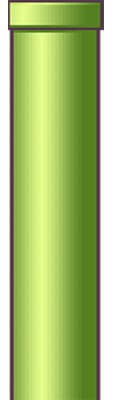
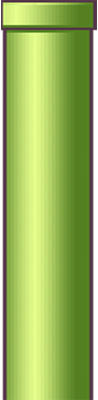
tmp commmit

Changed region(s): [[0.8265, 0.0, 1.0, 1.0], [0.0, 0.0, 0.1531, 1.0]]

diff --git a/Classes/flappybird/GameLayer.cpp b/Classes/flappybird/GameLayer.cpp
@@ -6,10 +6,8 @@
 
 #define LOG_TAG "FlappyBirdGameLayer_TAG"
 
-bool GameLayer::init()
-{
-    if(!Layer::init())
-    {
+bool GameLayer::init() {
+    if (!Layer::init()) {
         return false;
     }
 
@@ -19,11 +17,12 @@ bool GameLayer::init()
     Point origin = Director::getInstance()->getVisibleOrigin();
 
     // 添加精灵
-    mBackground = Sprite::create("fp/vplants_001.jpg");
+    mBackground = Sprite::create("fp/vp.jpg");
     mBackground->setAnchorPoint(Point(0, 0));
     mBackground->setPosition(Point(origin.x, origin.y + visibleSize.height - mBackground->getContentSize().height));
     this->addChild(mBackground, 0);
-    CCLOG("%s, bg.w=%f, bg.h=%f", LOG_TAG, mBackground->getContentSize().width, mBackground->getContentSize().height);
+    CCLOG("%s, bg.w=%f, bg.h=%f", LOG_TAG, mBackground->getContentSize().width,
+          mBackground->getContentSize().height);
 
     mBird = initBird();
     Size backgroundSize = mBackground->getContentSize();
@@ -51,28 +50,26 @@ bool GameLayer::init()
     return true;
 }
 
-Sprite* GameLayer::initFloor()
-{
-    Sprite* sprite = Sprite::create("fp/floor1.png");
+Sprite *GameLayer::initFloor() {
+    Sprite *sprite = Sprite::create("fp/floor1.png");
     return sprite;
 }
 
-Sprite* GameLayer::initBird()
-{
-    Sprite* bird = Sprite::create();
+Sprite *GameLayer::initBird() {
+    Sprite *bird = Sprite::create();
 
-    SpriteFrameCache* sfc = SpriteFrameCache::getInstance();
+    SpriteFrameCache *sfc = SpriteFrameCache::getInstance();
     sfc->addSpriteFramesWithFile("fp/bird.plist", "fp/birdP.png");
     //动画图片的名称
     std::string animBird[3] =
-    {
-            "bird1.png",
-            "bird2.png",
-            "bird3.png"
-    };
+            {
+                    "bird1.png",
+                    "bird2.png",
+                    "bird3.png"
+            };
 
     //创建存放动画帧的向量
-    Vector<SpriteFrame*> animFrames;
+    Vector<SpriteFrame *> animFrames;
     //获取动画帧
     animFrames.pushBack(sfc->getSpriteFrameByName(animBird[0]));
     animFrames.pushBack(sfc->getSpriteFrameByName(animBird[1]));
@@ -89,35 +86,49 @@ Sprite* GameLayer::initBird()
 
 void GameLayer::initColumn1() {
     Size visibleSize = Director::getInstance()->getVisibleSize();
+    CCLOG("%s, visibleSize.width=%.2f, visibleSize.height=%.2f", LOG_TAG, visibleSize.width,
+          visibleSize.height);
     //获取背景尺寸大小
     Size backSize = mBackground->getContentSize();
+    CCLOG("%s, backSize.width=%.2f, backSize.height=%.2f", LOG_TAG, backSize.width,
+          backSize.height);
     //获取地面尺寸大小
     Size floorSize = mFloor->getContentSize();
-    int i = random();
+    CCLOG("%s, floorSize.width=%.2f, floorSize.height=%.2f", LOG_TAG, floorSize.width,
+          floorSize.height);
 
-    int height1 =  400 / i;
-    Sprite* columnNode1 = Sprite::create("fp/column1.png");
+    int height1 = 400 / random();
+    Sprite *columnNode1 = Sprite::create("fp/column1.png");
     mColumnUnder1 = Scale9Sprite::create();
 //    mColumnUnder1->updateWithBatchNode(columnNode1, Rect(0, 0, 96, 400), false, Rect(0, 30, 96, 400));
-    mColumnUnder1->updateWithSprite(columnNode1, Rect(0, 0, 96, 400), false, Rect(0, 0, 96, 400));
+    mColumnUnder1->updateWithSprite(columnNode1, Rect(0, 0, 98, 400), false,
+                                    Rect(0, 0, COLUMN_WIDTH, 400));
     mColumnUnder1->setAnchorPoint(Point(0, 0));
-    mColumnUnder1->setContentSize(Size(96, height1));
+    mColumnUnder1->setContentSize(Size(COLUMN_WIDTH, height1));
     mColumnUnder1->setPosition(Point(visibleSize.width, floorSize.height));
     CCLOG("%s, mColumnUnder1.height=%d, position.x=%.2f, position.y=%.2f ", LOG_TAG, height1,
           visibleSize.width, floorSize.height);
 
-    int height2 = backSize.height - height1 - 196;
-    SpriteBatchNode* columnNode2 = SpriteBatchNode::create("fp/column2.png");
+
+    int height2 = (int) (visibleSize.height - floorSize.height - height1 - COLUMN_GAP);
+    int capInset = 2;
+    Sprite *columnNode2 = Sprite::create("fp/column2.png");
     mColumnOn1 = Scale9Sprite::create();
-    mColumnOn1->updateWithBatchNode(columnNode2, Rect(0, 0, 96, 400), false, Rect(0, 0, 96, 370));
+    Size sSize = columnNode2->getContentSize();
+    mColumnOn1->updateWithSprite(columnNode2, Rect(0, 0, sSize.width, sSize.height),
+                                 false, Rect(capInset, capInset, sSize.width - capInset * 2,
+                                             sSize.height - capInset * 2));
     mColumnOn1->setAnchorPoint(Point(0, 0));
-    mColumnOn1->setContentSize(Size(96, height2));
-    mColumnOn1->setPosition(Point(visibleSize.width, visibleSize.height - height2));
+    mColumnOn1->setContentSize(Size(Size(sSize.width, height2)));
+    mColumnOn1->setPosition(Point(visibleSize.width, floorSize.height + height1 + COLUMN_GAP));
+    mColumnOn1->setColor(Color3B(128, 0, 0));
+    CCLOG("%s, mColumnOn1.height=%d, position.x=%.2f, position.y=%.2f ", LOG_TAG, height2,
+          visibleSize.width, visibleSize.height - height2);
 
     this->addChild(mColumnUnder1, 0);
-//    this->addChild(mColumnOn1, 0);
-    mColumnUnder1->runAction(RepeatForever::create(MoveBy::create(3, Point(-25, 0))));
-//    mColumnOn1->runAction(RepeatForever::create(MoveBy::create(3, Point(-25, 0))));
+    this->addChild(mColumnOn1, 0);
+    mColumnUnder1->runAction(RepeatForever::create(MoveBy::create(1, Point(-25, 0))));
+    mColumnOn1->runAction(RepeatForever::create(MoveBy::create(1, Point(-25, 0))));
 
 }
 
@@ -126,7 +137,7 @@ void GameLayer::initColumn2() {
 }
 
 int GameLayer::random() {
-    srand((unsigned)time(NULL));
+    srand((unsigned) time(NULL));
     int number = rand() % 5 + 1;
     return number;
 }

diff --git a/Classes/GameEntryScene.cpp b/Classes/GameEntryScene.cpp
@@ -50,10 +50,13 @@ bool GameEntryScene::init()
     menu->setPosition(Point(x, 0));
 
     // menu进入动画
-    auto moveBy = MoveBy::create(2.0f, Vec2(0, y));
-    auto pBounceInOut = EaseBounceInOut::create(moveBy);
+    auto moveBy = MoveBy::create(0.5f, Vec2(0, y));
+    auto pBounceInOut = EaseBounceIn::create(moveBy);
     menu->runAction(pBounceInOut);
 
+
+    //test
+    test();
 
     return true;
 }
@@ -67,4 +70,24 @@ void GameEntryScene::gotoFlappyBirdScene(Ref *pSender) {
     Director::getInstance()->replaceScene(ss);
 
     CCLOG("%s : gotoFlappyBirdScene --", LOG_ATG);
+}
+
+
+void GameEntryScene::test() {
+    auto visibleSize = Director::getInstance()->getVisibleSize();
+    Vec2 origin = Director::getInstance()->getVisibleOrigin();
+
+    int a = 2;
+    Sprite* sprite = Sprite::create("fp/column2.png");
+    Size sSize = sprite->getContentSize();
+    Scale9Sprite* s9s1 = Scale9Sprite::create();
+    s9s1->updateWithSprite(sprite, Rect(0, 0, sSize.width, sSize.height),
+                           false, Rect(a, a, sSize.width-a*2, sSize.height-a*2));
+
+    s9s1->setPosition(Vec2(origin.x + 100, origin.y + 100));
+    s9s1->setContentSize(Size(sSize.width, sSize.height*3));
+    s9s1->setColor(Color3B(128, 0, 0));
+
+    this->addChild(s9s1);
+
 }

diff --git a/Classes/GameEntryScene.h b/Classes/GameEntryScene.h
@@ -3,6 +3,7 @@
 
 #include "cocos2d.h"
 #include "flappybird/FlappyBirdMainScene.h"
+#include "ui/CocosGUI.h"
 
 USING_NS_CC;
 
@@ -21,6 +22,8 @@ public:
 
 
     void gotoFlappyBirdScene(Ref *pSender);
+
+    void test();
 };
 
 #endif // __GAME_ENTRY_SCENE_H__

diff --git a/Classes/flappybird/GameLayer.h b/Classes/flappybird/GameLayer.h
@@ -39,6 +39,9 @@ private:
 
     int random();
 
+private:
+    const int COLUMN_WIDTH = 96;
+    const int COLUMN_GAP = 80;
 
 public:
     // 初始化GameLayer
